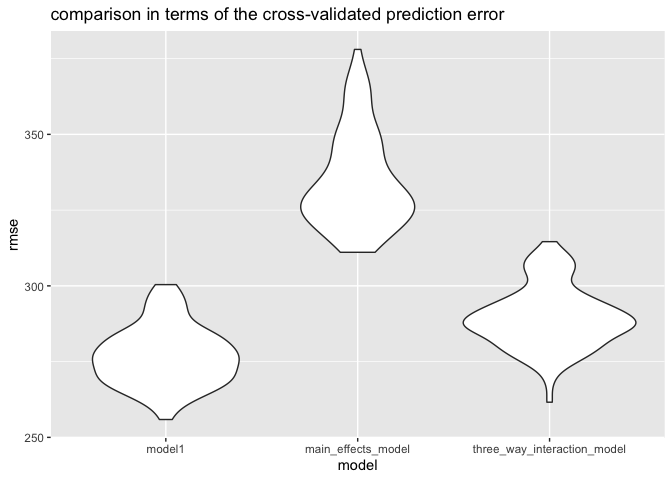
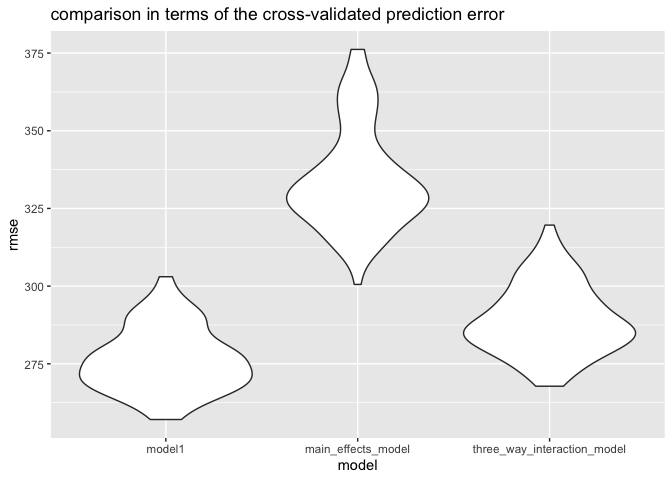
added some discription

diff --git a/p8105_hw6_sl5010.md b/p8105_hw6_sl5010.md
@@ -198,6 +198,9 @@ cv_df =
     rmse_three_way_interaction_model = map2_dbl(three_way_interaction_model, test, ~rmse(model = .x, data = .y)))
 ```
 
+    ## Warning in predict.lm(model, data): prediction from a rank-deficient fit may be
+    ## misleading
+
 ``` r
 ## get the plot
 cv_df %>% 
@@ -212,7 +215,13 @@ cv_df %>%
 ```
 
 ![](p8105_hw6_sl5010_files/figure-gfm/unnamed-chunk-7-1.png)<!-- -->
-\#\# Problem 2
+
+discribe: I found that my model has lowest cross-validated prediction
+error, which means my model 1 is the most accurate, followed by
+three\_way\_interaction\_model. main\_effects\_model is the most
+inaccurate model.
+
+## Problem 2
 
 ``` r
 ## getting the data
@@ -257,7 +266,7 @@ bootstrap_results %>%
 
 | term        | boot\_se |
 |:------------|---------:|
-| (Intercept) |    0.251 |
+| (Intercept) |    0.252 |
 | tmin        |    0.017 |
 
 ``` r
@@ -312,7 +321,7 @@ bootstrap_results2 %>%
     ## # A tibble: 1 × 2
     ##   ci_lower ci_upper
     ##      <dbl>    <dbl>
-    ## 1    0.895    0.928
+    ## 1    0.894    0.928
 
 ``` r
  bootstrap_results2 %>%
